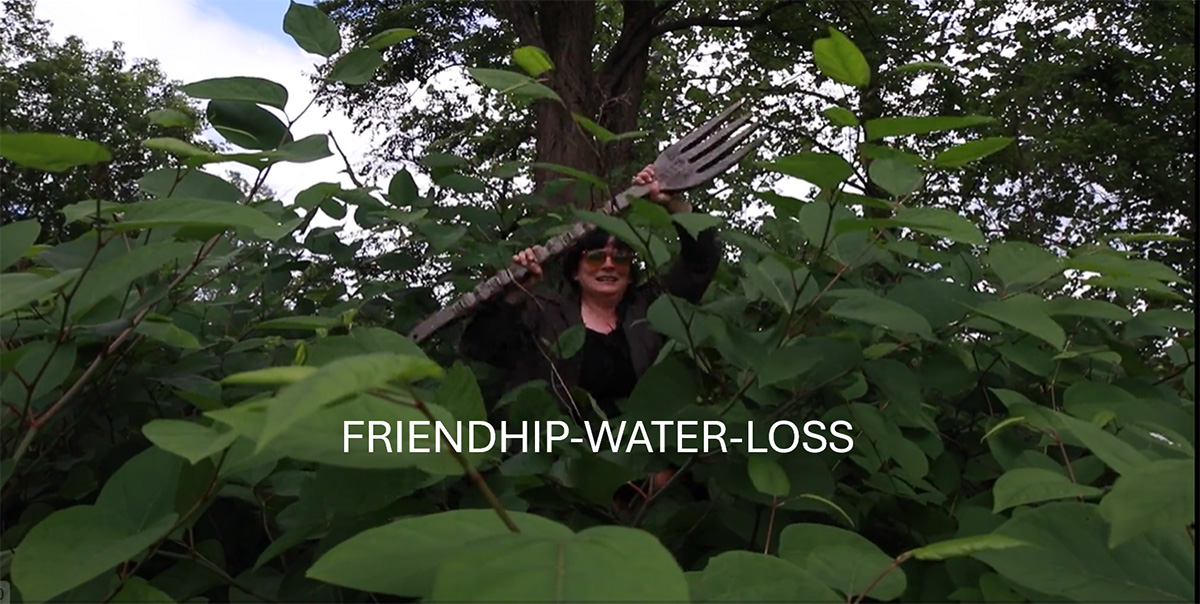
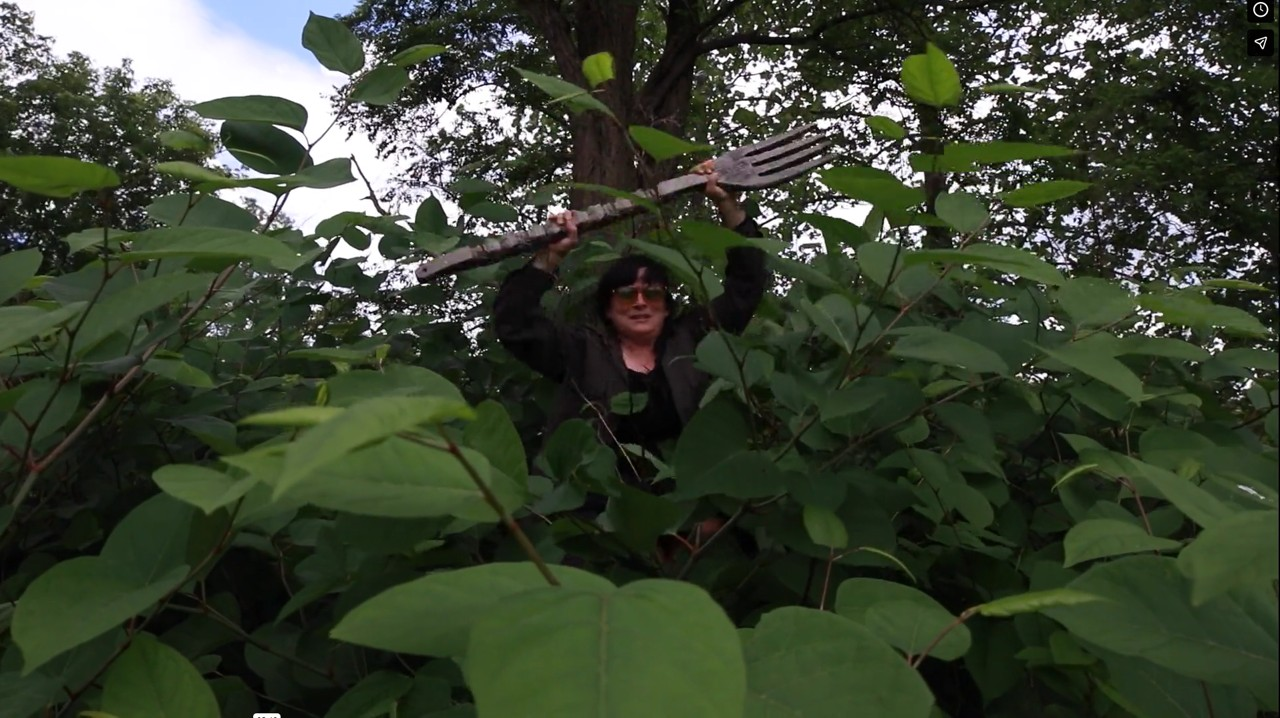
residency page / WIP page / and summer school typo fix

diff --git a/content/residency/index.md b/content/residency/index.md
@@ -1,0 +1,153 @@
++++
+title = "Residencies"
+banner = "img/banner.jpg"
++++
+
+{{< logo-image src="img/logo.jpg" >}}
+We are experimenting with innovative approaches to bring people together to generate connections for a sustainable future. Our residency program started in November 2021 and provides access to the land and programming at The Soil Factory. Residencies are open to anyone who is interested in engaging with the community at The Soil Factory, including but not limited to artists, scientists, musicians, ecological practitioners, and community organizers.
+
+Artists-in-residence harvest clay from our local soil to make ceramics; participate in art/nature events in our meadow and garden areas; join on-site sustainability-focused mending circles, barter markets, and re-use crafting events; participate in weekly darkroom and cyanotype sessions; engage in child-centered art explorations; and host film nights. These interactions cultivate the practice of our visitors just as much as they bring to our community the chance to see and experience innovative art from outside the scope of our rural Ithacan life.
+
+Residents often first come to Ithaca for an initial site visit of a few days, in order to get a sense of this place and its community. Then there is the possibility to spend more time here, with 1-2 weeks being the duration of a typical residency. We are excited when residents keep returning to embark on other projects here. We have invited back prior resident artists to participate in our [2026 Summer School](../events/summer-school/), an experimental event in the spirit of Black Mountain College and the Soil Factory.
+
+A few examples where exciting networks started to expand in unexpected ways, are listed below...
+{{< /logo-image >}}
+
+## Artists-in-residence
+![](img/fig1.jpg)  
+Here are some artists who have visited us:
+
+[Nidaa Aboulhosn](https://www.nidaaaboulhosn.com/about) (photography/drawing/time-based – Lebanon/NY)
+
+[Kathrin Achenbach](https://annekata.com/) (thread/ink/fabric – Andalusia, Spain)
+
+[Alvaro Azcarraga](https://alvaroazcarraga.com/Information) (artist/researcher – New York)
+
+[Abby Banks](https://www.abby-banks.net/about.html) (sculpture/photography/film/presentation/publication – San Francisco)
+
+[Marilyn Boror Bor](https://marilynboror.com/) (language/memory/feminism/earth – Guatemala)
+
+[Daniel Bozhkov](https://www.danielbozhkovart.com/) (visual & performance – NYC)
+
+[Shannon Brooks](https://movementresearch.org/people/shannon-brooks/) (performance/multidisciplinary artist – Philadelphia)
+
+[Paolo Buggiani](https://paolobuggiani.com/) (performance artist – Rome, Italy)
+
+[Sari Carel](https://www.saricarel.com/about) (multimedia artist – NYC)
+
+[Nicole Chochrek](https://nicolechochrek.com/) (interdisciplinary artist – Buffalo)
+
+[Rachel Garber Cole](https://www.rachelgarbercole.com/about) (visual artist – NYC)
+
+[Abigail Raphael Collins](http://abigailraphaelcollins.com/) (video artist – Los Angeles, CA)
+
+[Patrick Costello](https://www.patrickjcostello.net/about) (visual & landscape art – NYC)
+
+[marlo de Lara](https://marlodelara.squarespace.com/) (sound/film – UK/Baltimore/LA)
+
+[dean erdmann](https://artsandhumanities.ucsd.edu/academics/new-faculty/2022/dean-erdmann.html) (visual/media artist – San Diego, CA)
+
+[Mauricio Esquivel](https://www.mauricioesquivel.com/about/) (sculptor/etc. – NYC)
+
+[Matthew Fenn](https://cals.cornell.edu/people/matthew-fenn) (photography/plants – Ithaca)
+
+[Ash Ferlito](https://www.ashferlito.com/) (sculpture/printmaking/rewidling – Ithaca)
+
+[Maxwell Fertik](https://maxwellfertik.com/) (multidisciplinary artist and designer – Indiana)
+
+[Abrie Fourie](https://www.abriefourie.com/info/) (Berlin, South Africa)
+
+[Rachel Frank](https://www.rachelfrank.com/) (sculpture/video/performance – NYC)
+
+[Andrew Freiband](https://www.artistsliteracies.org/aboutus) (art/science intersection – NYC)
+
+[Dylan Gauthier](https://www.thesunview.org/) (artist/curator/educator – NYC)
+
+[Lyn Goeringer](https://www.lyngoeringer.com/portfolio/) (composer, sound artist – Baltimore)
+
+[Debora Faccion Grodzki](https://www.facciongrodzki.com/) (expanded painting – Ithaca)
+
+[José Buenaventura Gonzalez Gutierrez](https://www.mexicanweaver.com/) (weaver – Oaxaca)
+
+Ali Feser (anthropology – Potsdam/Binghamton)
+
+[Elle Hendrickson](https://ellehendrickson.com/about/) (sculpture and visual artist – KY)
+
+[Fritz Horstman](http://www.fritzhorstman.com/) (sound and visual artist – Bethany, CT)
+
+[Kathy High](https://www.kathyhigh.com/) (technology/art/biology – Troy, NY)
+
+[Anna Ialeggio](https://www.aialeggio.net/) (artist/peformer – Bar Harbor, ME)
+
+[Ellie Irons](https://ellieirons.com/) (urban ecology – Troy, NY)
+
+[Lucy Kerr](https://metrograph.com/lucy-kerr-interview/) (filmmaker and video/performance artist – Syracuse)
+
+[Nance Klehm](https://socialecologies.net/cms/social-ecologies/about-us/) (land systems designer, soil scientist – Freeport, IL)
+
+[Annamariah Knox](https://annamariahknoxstudio.com/about) (textiles, soft sculpture, video, and movement – NYC)
+
+[Hae Ahn Kwan](https://www.haeahnkwon.com/) (visual artist – Halifax, Canada)
+
+Jonas Kyle (sculpture/painting/theater – NYC)
+
+[Z. Cecilia Lu](https://zcecilialu.com/cv) (sculpture/ceramic/organic – Troy, NY)
+
+Amanda Miller (theater – NYC)
+
+Maria Mironova (photography – New York)
+
+Ilse Sørensen Murdock (painting – NYC)
+
+[Nobuho Nagasawa](https://nobuhonagasawa.com/) (transdisciplinary artist – Stony Brook)
+
+[Sarah Nahar](https://www.sarahnahar.com/) (environmental scholar – Syracuse, Ann Arbor)
+
+[Landon Newton](https://landon-newton.com/) (plants – NYC)
+
+[Donna Oblongata](https://www.donnaoblongata.com/) (theater artist – Philadelphia, PA)
+
+[Linda O’Keefe](https://www.lindaokeeffe.com/) (sound artist – NYC)
+
+[Ian Page](https://ianpage.net/) (visual artist – Provincetown/LA)
+
+[Magda Pios](https://pl.linkedin.com/in/magdalena-pios-1b2b21a5) (architect – Warsaw, Poland)
+
+Sonia Ramirez (sculpture/graffiti/installation artist – NYC)
+
+[Leslie Rogers](https://www.leslierogers.net/) (textile/puppetry/fermentation – Detroit, MI)
+
+[Stephanie Rothenberg](https://stephanierothenberg.com/) (interdisciplinary artist – Buffalo)
+
+[Barnaby Ruhe](https://www.barnabyruhe.org/bio) (painting – NYC)
+
+[Silvia Ruzanka](https://silviaruzanka.com/) (media artist – Albany)
+
+Neil Schill (photography – Andalusia, Spain)
+
+[Dave Seidel](https://mysterybear.net/contact/) (composer/performer – Peterborough, NH)
+
+[Shawn Shafner](https://www.shawnshafner.com/) (theater – Washington, DC)
+
+[Adam Washiyama Shulman](https://adamshulman.art/about) (ecological sculpture, theatrical design, and performance – Ithaca)
+
+Dan Shulman (music – France)
+
+[Amanda Simson](https://engfac.cooper.edu/asimson) (science/art – NYC)
+
+[Alek Slon](https://www.alekslon.com/) (visual and video art – Warsaw, Poland)
+
+[Ashley Teamer](https://ashleyteamer.com/) (visual/sound artist – New Orleans, NYC)
+
+[Suzanne Thorpe](https://www.suzannethorpe.com/) (composer/performer – Catskills)
+
+[Pietro Varrasso](https://lavauzelle.org/intervenants/pietro-varrasso/) (director/actor – Liège, Belgium)
+
+[Sacha Yanow](https://www.sachayanow.com/) (actor, performance artist, organizer – NYC)
+
+[Ella Ziegler](http://www.ella-ziegler.de/) (Berlin, DE)
+
+{{< alt-image src="img/fig2.jpg" >}}
+## Interested in the Residency?  
+If you want to visit or know someone you want to invite, get in touch with [soilfactoryevents@gmail.com](mailto:soilfactoryevents@gmail.com). It would help to send a half page or so telling us who you are, what kind of work you do, why you are particularly interested in the Soil Factory, and the rough time frame you would like to be considered for coming.  The artist and residence organizing group will write back, but be prepared for a long lag before a response. If you’re interested in the residency, do consider joining our newsletter and bulletin listserv. That is a good way to learn more about the range of happenings at the Soil Factory.
+{{< /alt-image >}}

diff --git a/content/activities/wip/index.md b/content/activities/wip/index.md
@@ -1,0 +1,8 @@
++++
+title = "Watershed Internship Program"
+banner = "img/banner.jpg"
++++
+
+Since 2025, the Soil Factory has participated in the Watershed Internship Program (WIP), which is organized by Discover Cayuga Lake. In 2025, intern Ray Blegen supported the bale bed gardens and took the lead in building an EcoLu using a simple grid-beam technique.  In 2026, interns Makenna Dovel and Fisher St Clair helped with a major garden upgrades that included beautiful artwork. In 2026, interns Caleb LeBlanc and Kyleigh Tangen are continuing to provide beautiful gardens for the Soil Factory community.
+
+{{< image-gallery dir="img/gal" >}}
